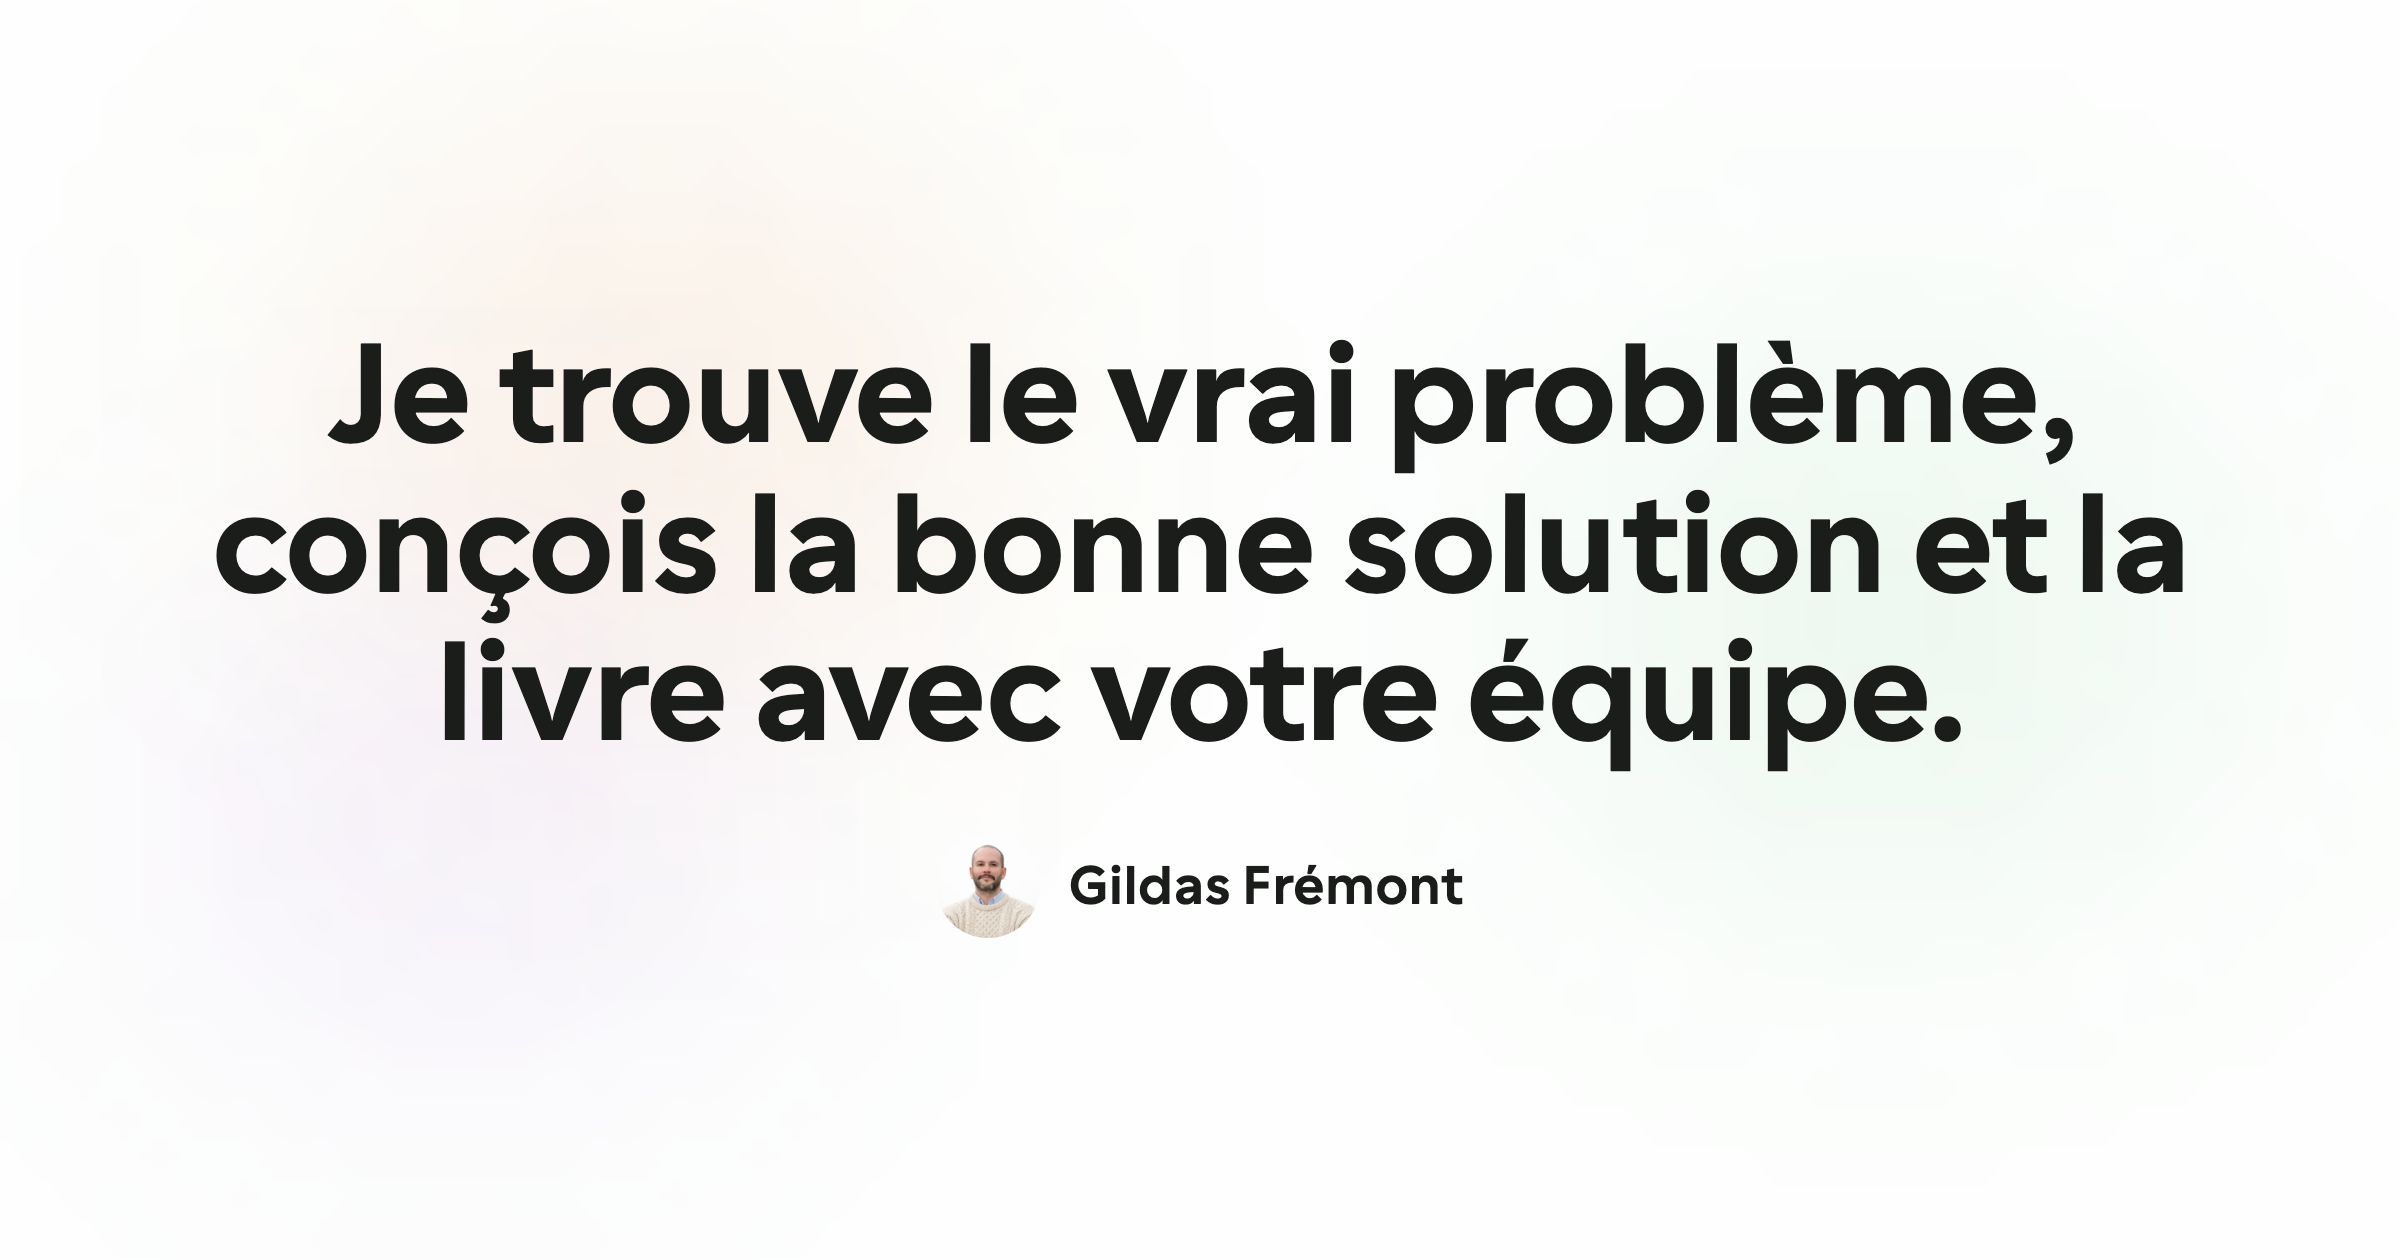
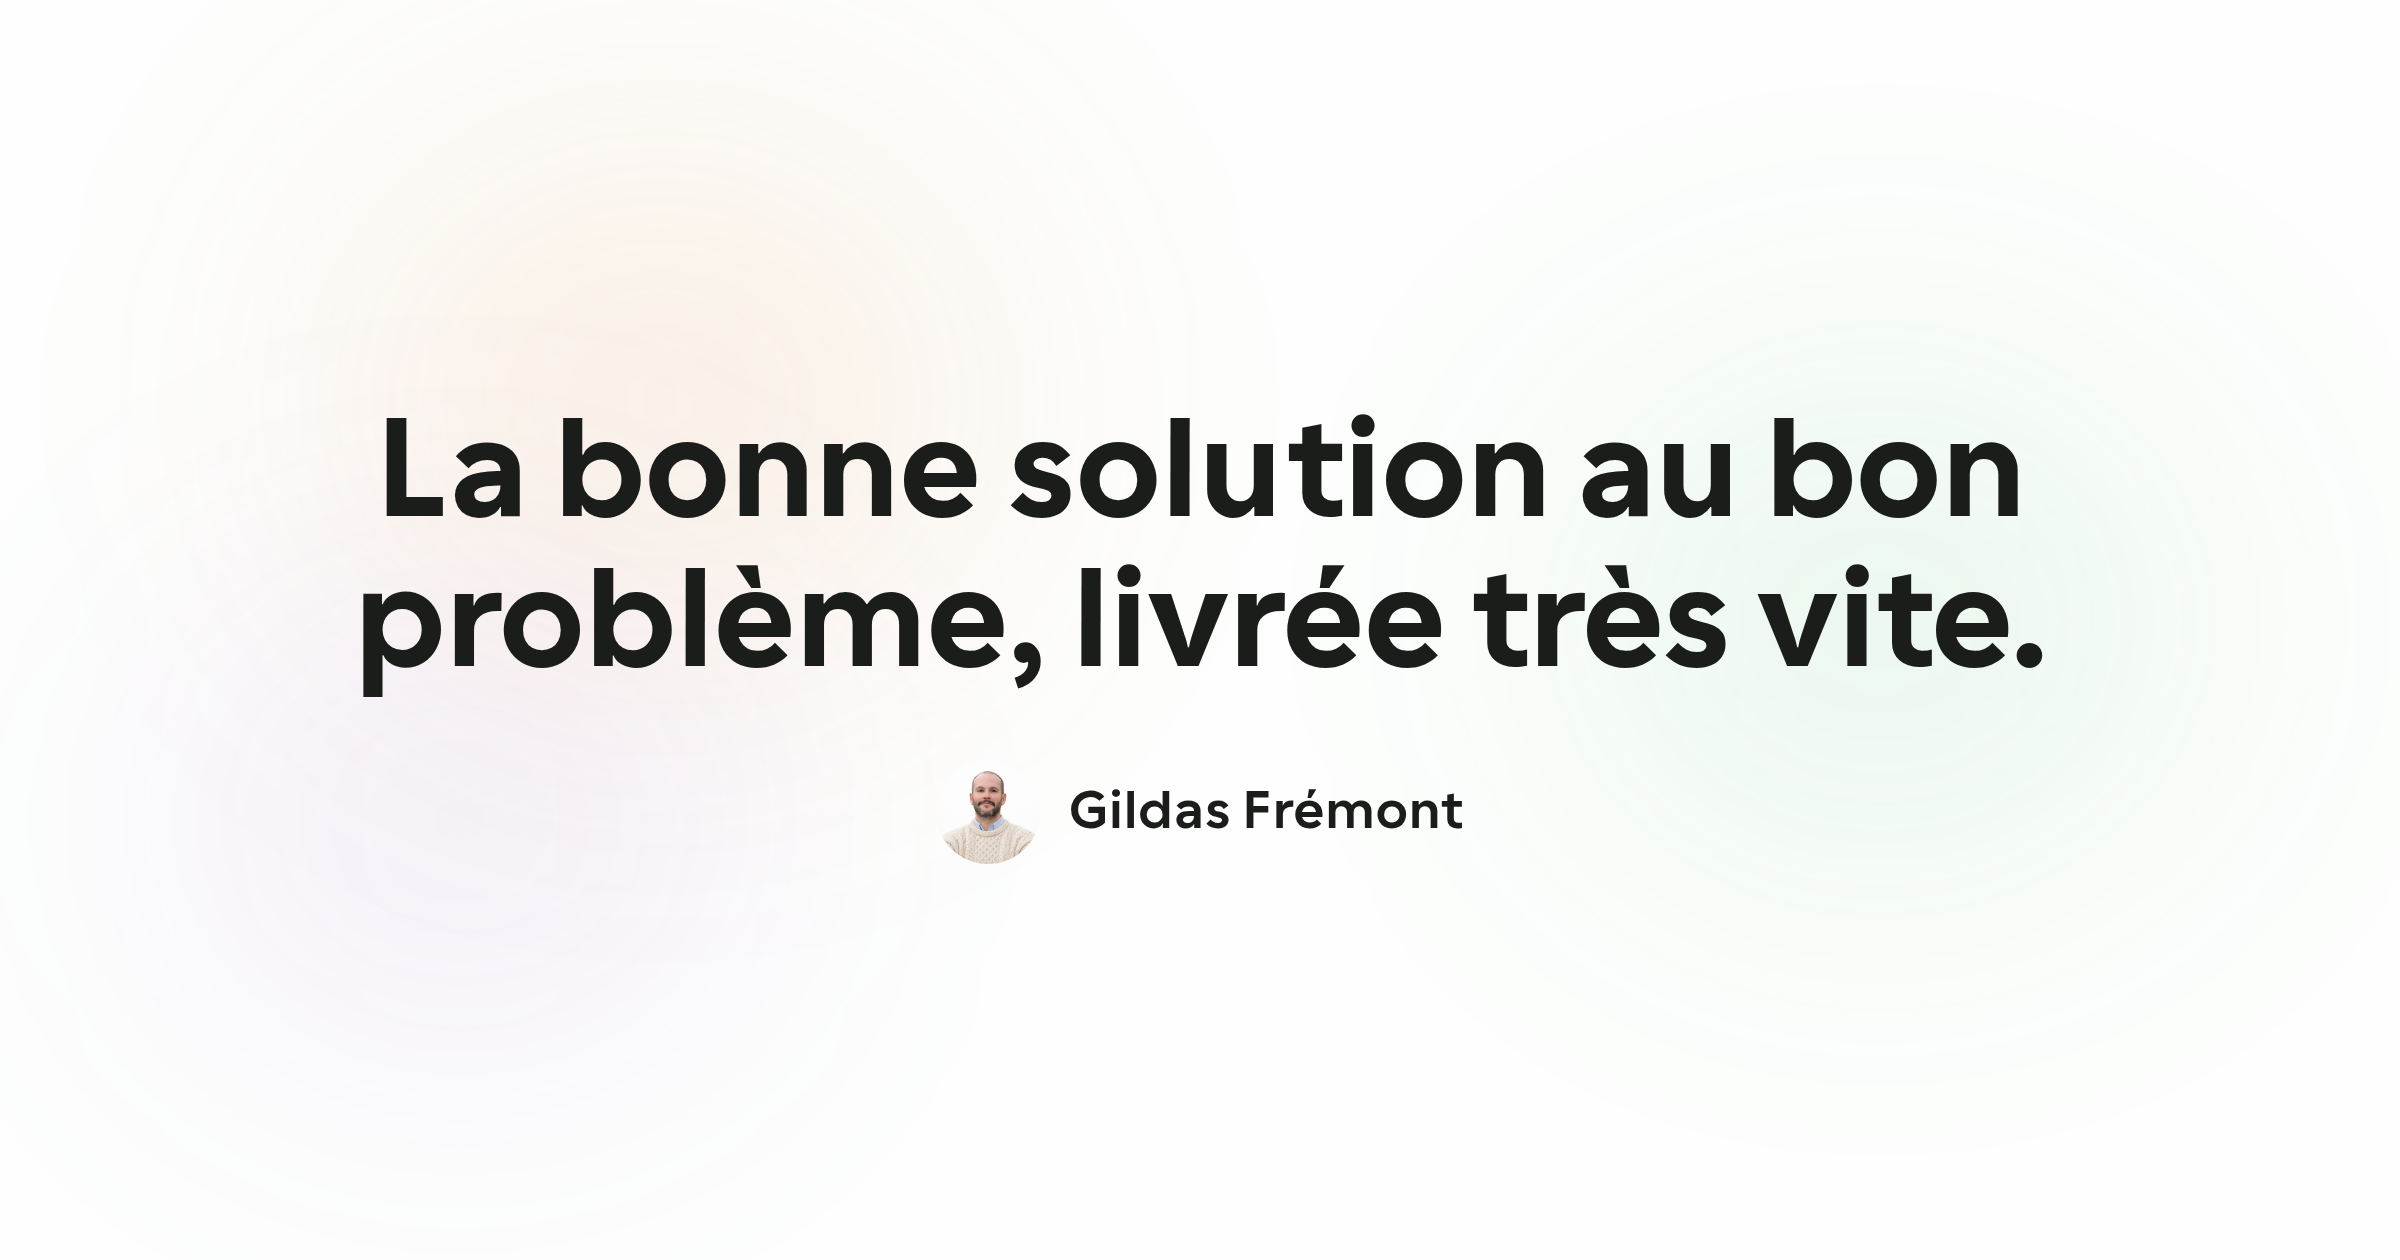
Update OG/social share: new image + new taglines in meta
Regenerated og.png with "La bonne solution au bon problème, livrée très vite."
Updated meta descriptions, OG tags, Twitter tags, JSON-LD in FR + EN.

https://claude.ai/code/session_01QAmrnCLnmdxRGdf9qYu4vF

Changed region(s): [[0.0938, 0.2476, 0.9375, 0.619], [0.375, 0.619, 0.625, 0.7429]]

diff --git a/index.html b/index.html
@@ -4,7 +4,7 @@
   <meta charset="UTF-8">
   <meta name="viewport" content="width=device-width, initial-scale=1.0">
   <title>Gildas Frémont — Direction produit à la demande</title>
-  <meta name="description" content="Direction produit à la demande. Je trouve le vrai problème, conçois la bonne solution et la livre avec votre équipe.">
+  <meta name="description" content="La bonne solution au bon problème, livrée très vite.">
   <link rel="canonical" href="https://gildas.fyi/">
   <link rel="alternate" hreflang="fr" href="https://gildas.fyi/index.html">
   <link rel="alternate" hreflang="en" href="https://gildas.fyi/en.html">
@@ -13,7 +13,7 @@
   <link rel="alternate" hreflang="x-default" href="https://gildas.fyi/en.html">
   <meta property="og:type" content="website">
   <meta property="og:title" content="Gildas Frémont — Direction produit à la demande">
-  <meta property="og:description" content="Je trouve le vrai problème, conçois la bonne solution et la livre avec votre équipe.">
+  <meta property="og:description" content="La bonne solution au bon problème, livrée très vite.">
   <meta property="og:url" content="https://gildas.fyi/">
   <meta property="og:image" content="https://gildas.fyi/img/og.png">
   <meta property="og:image:width" content="1200">
@@ -22,7 +22,7 @@
   <meta property="og:locale:alternate" content="en_US">
   <meta name="twitter:card" content="summary_large_image">
   <meta name="twitter:title" content="Gildas Frémont — Direction produit à la demande">
-  <meta name="twitter:description" content="Je trouve le vrai problème, conçois la bonne solution et la livre avec votre équipe.">
+  <meta name="twitter:description" content="La bonne solution au bon problème, livrée très vite.">
   <meta name="twitter:image" content="https://gildas.fyi/img/og.png">
   <meta name="theme-color" content="#fafcf9">
   <link rel="preload" href="CalSansUI-Variable.woff2" as="font" type="font/woff2" crossorigin>
@@ -36,7 +36,7 @@
     "name": "Gildas Frémont",
     "url": "https://gildas.fyi",
     "jobTitle": "Direction produit à la demande",
-    "description": "Directeur produit freelance. Je trouve le vrai problème, conçois la bonne solution et la livre avec votre équipe.",
+    "description": "Directeur produit freelance. La bonne solution au bon problème, livrée très vite.",
     "knowsAbout": ["Product Management", "UX Design", "Design System", "Product-Led Growth", "Audit produit", "Information Architecture"],
     "alumniOf": [
       {"@type": "EducationalOrganization", "name": "Le Wagon"},

diff --git a/en.html b/en.html
@@ -4,7 +4,7 @@
   <meta charset="UTF-8">
   <meta name="viewport" content="width=device-width, initial-scale=1.0">
   <title>Gildas Frémont — Freelance Product Director</title>
-  <meta name="description" content="Freelance Product Director. I find the real problem, design the right solution and deliver it with your team.">
+  <meta name="description" content="The right solution to the right problem, delivered fast.">
   <link rel="canonical" href="https://gildas.fyi/en.html">
   <link rel="alternate" hreflang="fr" href="https://gildas.fyi/index.html">
   <link rel="alternate" hreflang="en" href="https://gildas.fyi/en.html">
@@ -13,7 +13,7 @@
   <script type="speculationrules">{"prerender":[{"urls":["index.html"]}]}</script>
   <meta property="og:type" content="website">
   <meta property="og:title" content="Gildas Frémont — Freelance Product Director">
-  <meta property="og:description" content="I find the real problem, design the right solution and deliver it with your team.">
+  <meta property="og:description" content="The right solution to the right problem, delivered fast.">
   <meta property="og:url" content="https://gildas.fyi/en.html">
   <meta property="og:image" content="https://gildas.fyi/img/og.png">
   <meta property="og:image:width" content="1200">
@@ -22,7 +22,7 @@
   <meta property="og:locale:alternate" content="fr_FR">
   <meta name="twitter:card" content="summary_large_image">
   <meta name="twitter:title" content="Gildas Frémont — Freelance Product Director">
-  <meta name="twitter:description" content="I find the real problem, design the right solution and deliver it with your team.">
+  <meta name="twitter:description" content="The right solution to the right problem, delivered fast.">
   <meta name="twitter:image" content="https://gildas.fyi/img/og.png">
   <meta name="theme-color" content="#fafcf9">
   <link rel="preload" href="CalSansUI-Variable.woff2" as="font" type="font/woff2" crossorigin>
@@ -36,7 +36,7 @@
     "name": "Gildas Frémont",
     "url": "https://gildas.fyi",
     "jobTitle": "Freelance Product Director",
-    "description": "Freelance product director. I find the real problem, design the right solution and deliver it with your team.",
+    "description": "Freelance product director. The right solution to the right problem, delivered fast.",
     "knowsAbout": ["Product Management", "UX Design", "Design System", "Product-Led Growth", "Product Audit", "Information Architecture"],
     "alumniOf": [
       {"@type": "EducationalOrganization", "name": "Le Wagon"},
